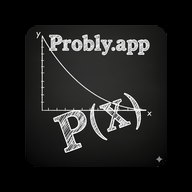
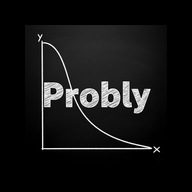
Drop the '.app', it’s cleaner

Changed region(s): [[0.1875, 0.1562, 0.8438, 0.8438]]

diff --git a/public/index.html b/public/index.html
@@ -3,7 +3,7 @@
 <head>
     <meta charset="UTF-8">
     <meta name="viewport" content="width=device-width, initial-scale=1.0">
-    <title>Probly.app</title>
+    <title>Probly</title>
 
     <link rel="manifest" href="/manifest.json">
     <link rel="icon" type="image/png" sizes="48x48" href="/favicon-48x48.png">
@@ -298,10 +298,10 @@
 <body>
     <header>
         <button id="menu-btn">☰</button>
-        <h1 id="app-title-bar">Probly.app</h1>
+        <h1 id="app-title-bar">Probly</h1>
     </header>
     <nav id="menu">
-        <div class="menu-header">Probly.app</div>
+        <div class="menu-header">Probly</div>
         <ul>
             <li><a href="#distributions">Distributions</a></li>
             <li><a href="#order-statistics">Order Statistics</a></li>
@@ -762,9 +762,9 @@
             </div>
         </div>
         <div id="install-app" class="app-container">
-             <h3>Install Probly.app</h3>
+             <h3>Install <em>Probly</em></h3>
              <p>For a better experience, you can install this application on your device. It will work offline and feel like a native app. Click the button below to install.</p>
-             <img src="/assets/icon-192x192.png" alt="Probly.app Logo" style="width: 128px; height: 128px; margin: 1rem auto; display: block;">
+             <img src="/assets/icon-192x192.png" alt="Probly Logo" style="width: 128px; height: 128px; margin: 1rem auto; display: block;">
              <button id="install-button" style="display: none;">
                 <svg class="icon" xmlns="http://www.w3.org/2000/svg" height="24" viewBox="0 0 24 24" width="24" fill="currentColor"><path d="M0 0h24v24H0z" fill="none"/><path d="M19.35 10.04C18.67 6.59 15.64 4 12 4 9.11 4 6.6 5.64 5.35 8.04 2.34 8.36 0 10.91 0 14c0 3.31 2.69 6 6 6h13c2.76 0 5-2.24 5-5 0-2.64-2.05-4.78-4.65-4.96zM12 17l-5-5h3V9h4v3h3l-5 5z"/></svg>
                 Install
@@ -2707,7 +2707,7 @@ document.addEventListener('DOMContentLoaded', () => {
         Object.values(appContainers).forEach(c => c.classList.remove('active'));
 
         if (appContainers[appName]) {
-            const title = `Probly.app: ${appTitles[appName]}`;
+            const title = `Probly: ${appTitles[appName]}`;
             document.title = title;
             document.getElementById('app-title-bar').textContent = title;
             appContainers[appName].classList.add('active');
@@ -2719,7 +2719,7 @@ document.addEventListener('DOMContentLoaded', () => {
                 appModules[appName].updateFromURL(params);
             }
         } else {
-            const title = `Probly.app: ${appTitles.bernoulli}`;
+            const title = `Probly: ${appTitles.bernoulli}`;
             document.title = title;
             document.getElementById('app-title-bar').textContent = title;
             appContainers.bernoulli.classList.add('active');
